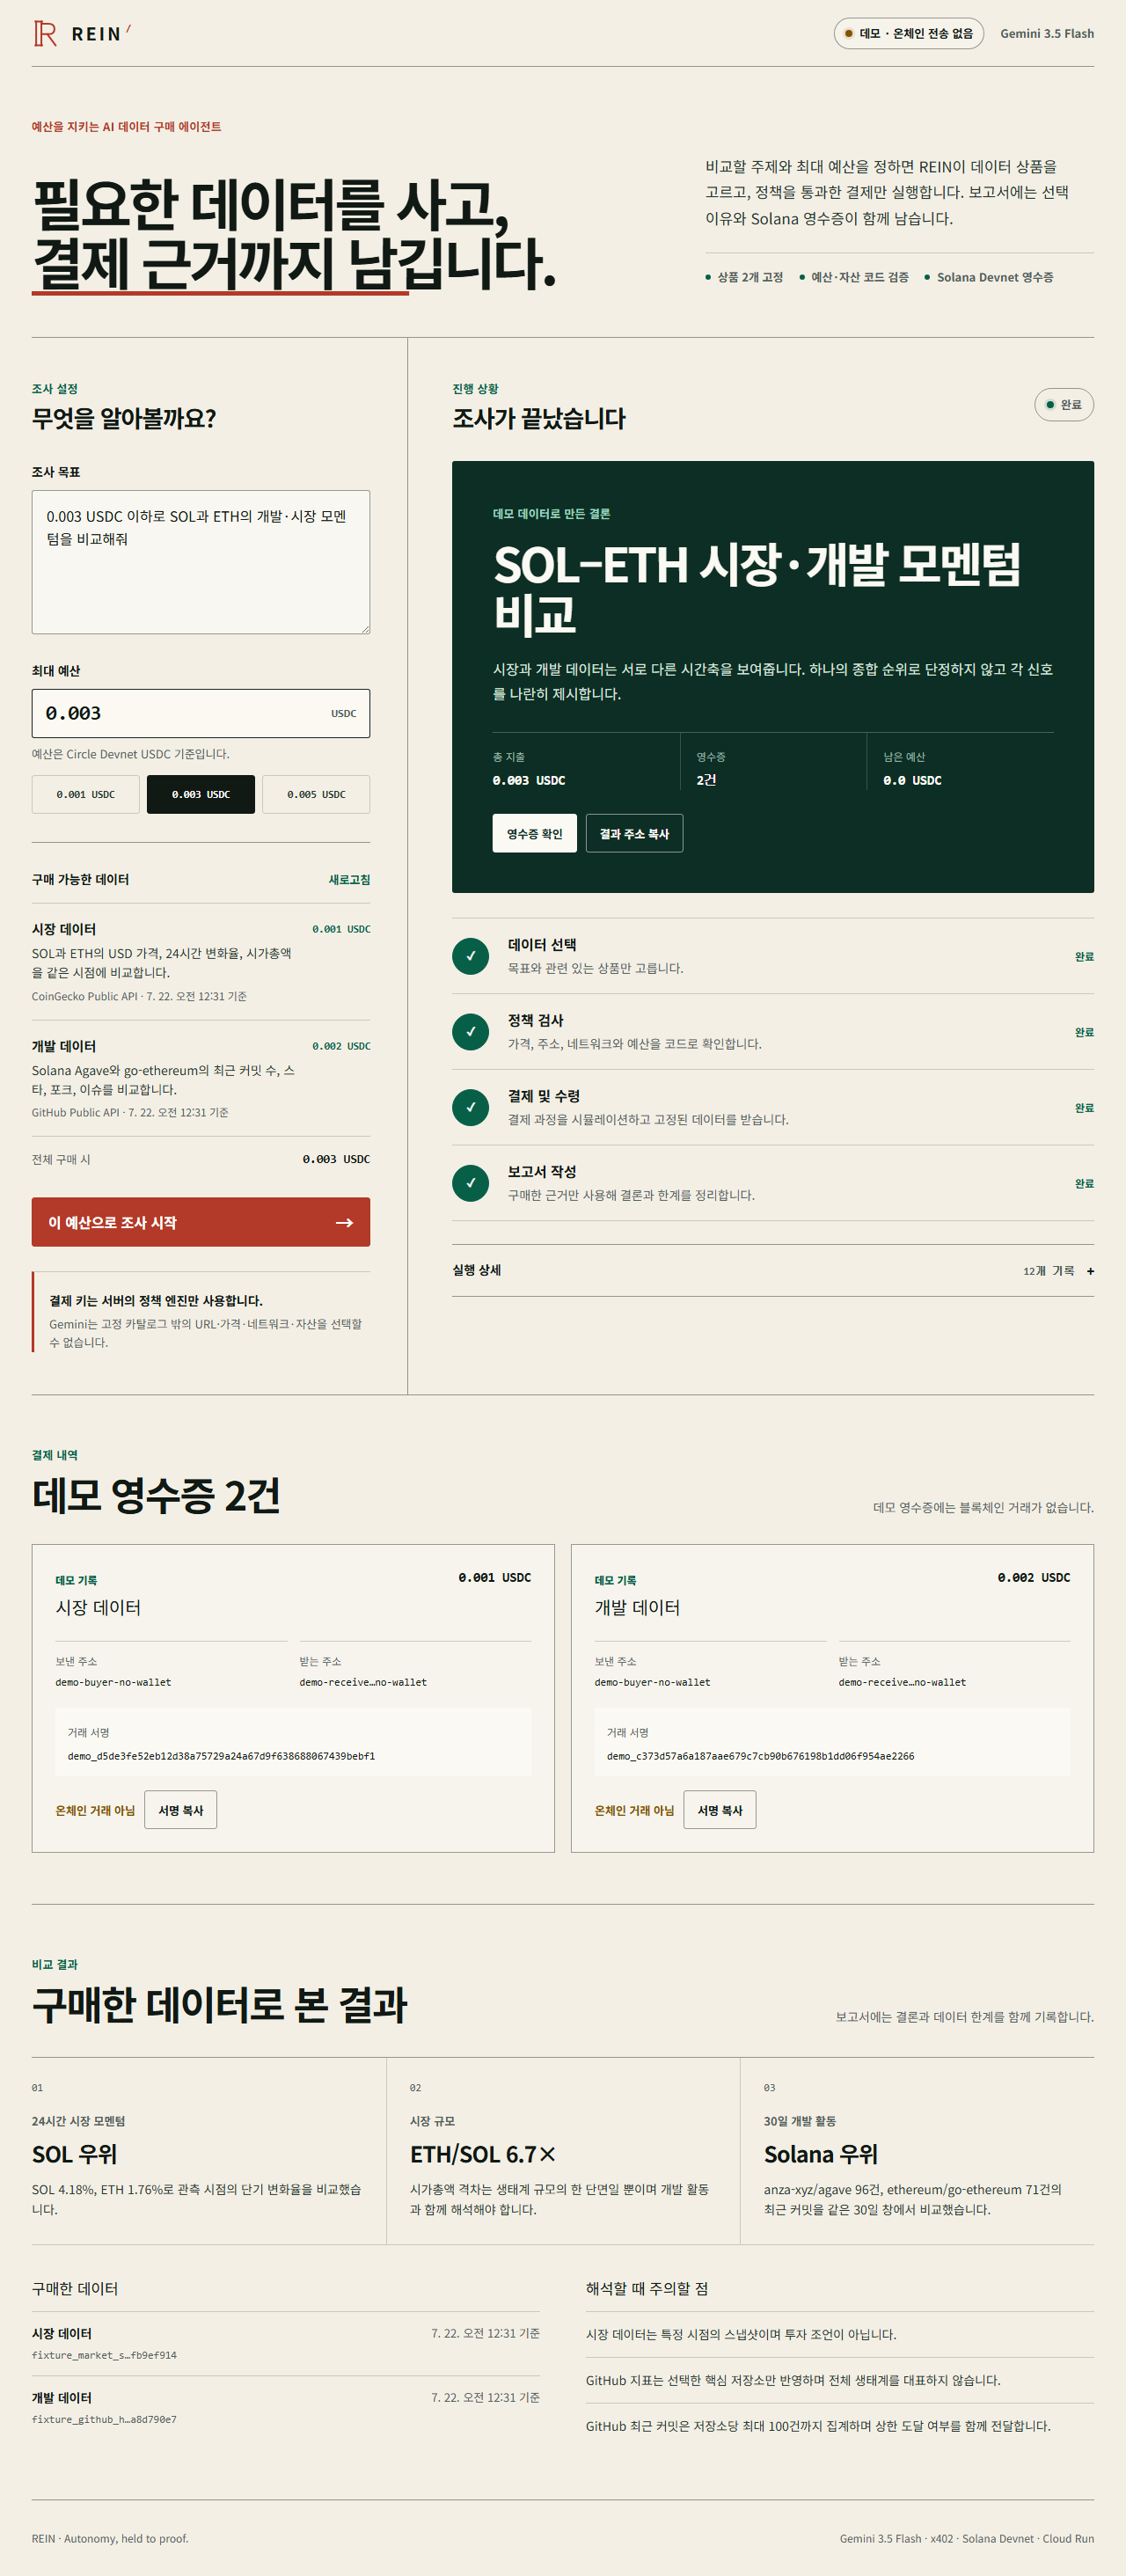
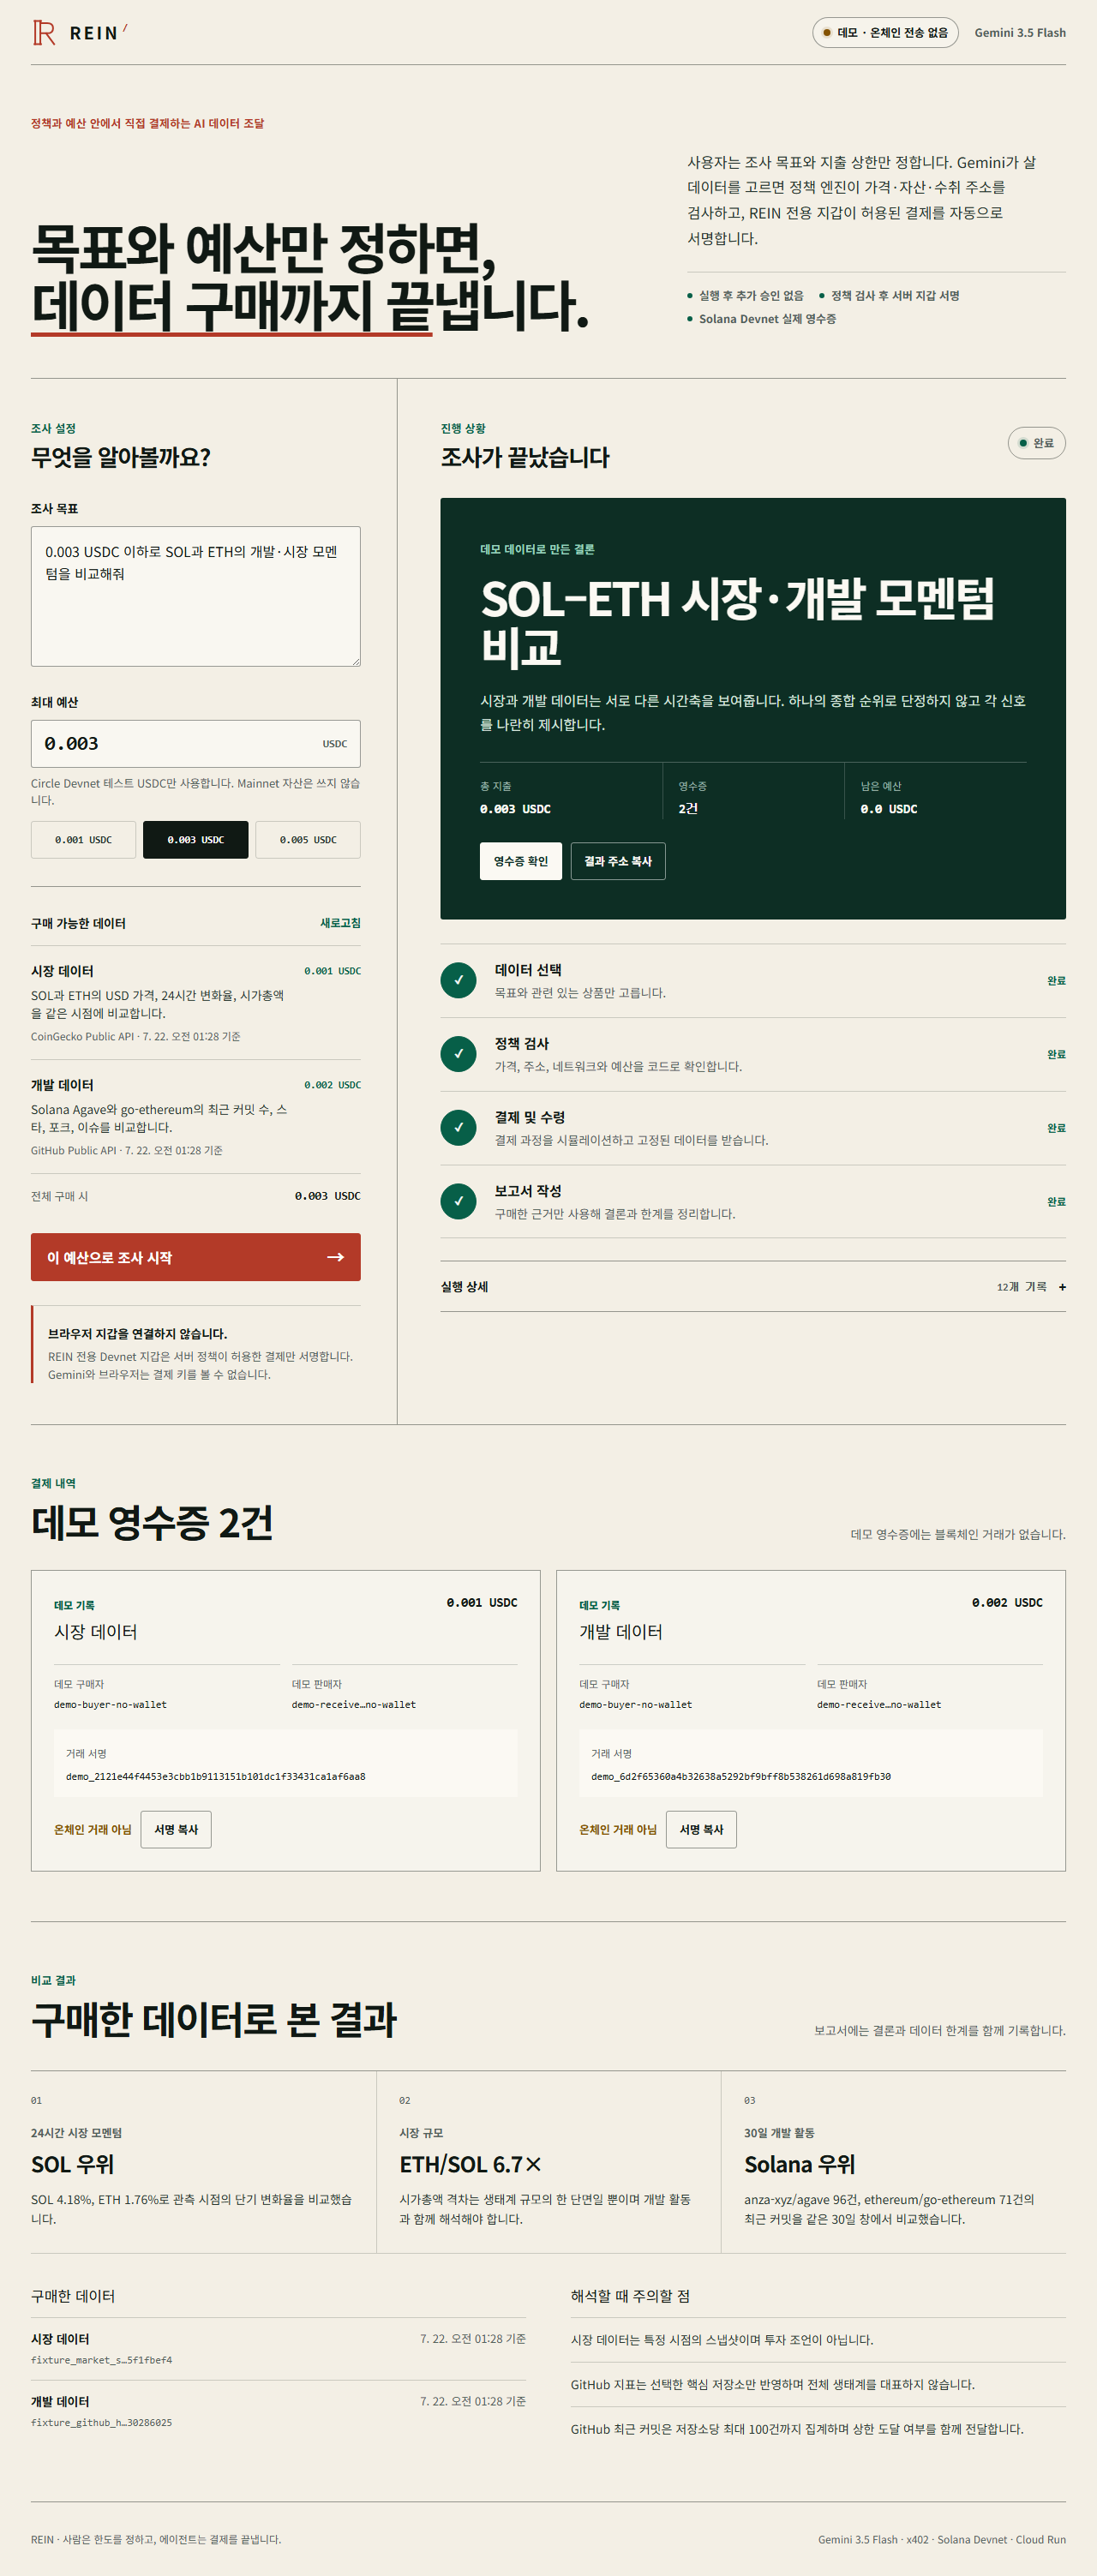
Clarify autonomous settlement experience

diff --git a/src/components/proofbuy-dashboard.tsx b/src/components/proofbuy-dashboard.tsx
@@ -178,7 +178,7 @@ function phaseState(
       title: "결제 및 수령",
       description:
         mode === "live"
-          ? "테스트 USDC로 결제하고 고정된 데이터를 받습니다."
+          ? "REIN 전용 Devnet 지갑이 자동 서명하고 고정된 데이터를 받습니다."
           : "결제 과정을 시뮬레이션하고 고정된 데이터를 받습니다.",
       state: paymentState,
     },
@@ -449,22 +449,22 @@ export function ReinDashboard() {
       </header>
 
       <section className="intro-band" aria-labelledby="page-title">
-        <p className="product-label">예산을 지키는 AI 데이터 구매 에이전트</p>
+        <p className="product-label">정책과 예산 안에서 직접 결제하는 AI 데이터 조달</p>
         <h1 id="page-title">
-          필요한 데이터를 사고,
+          목표와 예산만 정하면,
           <br />
-          <em>결제 근거까지 남깁니다.</em>
+          <em>데이터 구매까지 끝냅니다.</em>
         </h1>
         <div className="intro-support">
           <p>
-            비교할 주제와 최대 예산을 정하면 REIN이 데이터 상품을 고르고, 정책을
-            통과한 결제만 실행합니다. 보고서에는 선택 이유와 Solana 영수증이 함께
-            남습니다.
+            사용자는 조사 목표와 지출 상한만 정합니다. Gemini가 살 데이터를 고르면
+            정책 엔진이 가격·자산·수취 주소를 검사하고, REIN 전용 지갑이 허용된
+            결제를 자동으로 서명합니다.
           </p>
-          <ul aria-label="결제 제한">
-            <li>상품 2개 고정</li>
-            <li>예산·자산 코드 검증</li>
-            <li>Solana Devnet 영수증</li>
+          <ul aria-label="자율 결제 방식">
+            <li>실행 후 추가 승인 없음</li>
+            <li>정책 검사 후 서버 지갑 서명</li>
+            <li>Solana Devnet 실제 영수증</li>
           </ul>
         </div>
       </section>
@@ -517,7 +517,7 @@ export function ReinDashboard() {
               <span>USDC</span>
             </div>
             <p id="budget-help" className={`field-help ${budgetError ? "error" : ""}`}>
-              {budgetError ?? "예산은 Circle Devnet USDC 기준입니다."}
+              {budgetError ?? "Circle Devnet 테스트 USDC만 사용합니다. Mainnet 자산은 쓰지 않습니다."}
             </p>
 
             <div className="budget-presets" aria-label="예산 빠른 선택">
@@ -608,9 +608,10 @@ export function ReinDashboard() {
           </form>
 
           <div className="safety-note">
-            <strong>결제 키는 서버의 정책 엔진만 사용합니다.</strong>
+            <strong>브라우저 지갑을 연결하지 않습니다.</strong>
             <p>
-              Gemini는 고정 카탈로그 밖의 URL·가격·네트워크·자산을 선택할 수 없습니다.
+              REIN 전용 Devnet 지갑은 서버 정책이 허용한 결제만 서명합니다. Gemini와
+              브라우저는 결제 키를 볼 수 없습니다.
             </p>
           </div>
         </aside>
@@ -671,7 +672,7 @@ export function ReinDashboard() {
             <div className="run-intro">
               <p>
                 {lastEvent?.detail ??
-                  "구매 전에 상품·가격·선택 이유와 정책 검사 결과를 확인합니다."}
+                  "실행하면 추가 승인 없이 상품 선택, 정책 검사, 서버 지갑 결제, 보고서 작성까지 이어집니다."}
               </p>
               <div className="budget-summary">
                 <div>
@@ -792,11 +793,11 @@ export function ReinDashboard() {
                 </div>
                 <dl>
                   <div>
-                    <dt>보낸 주소</dt>
+                    <dt>{receipt.mode === "live" ? "REIN 에이전트 지갑" : "데모 구매자"}</dt>
                     <dd>{shorten(receipt.payer, 12, 9)}</dd>
                   </div>
                   <div>
-                    <dt>받는 주소</dt>
+                    <dt>{receipt.mode === "live" ? "데이터 판매자" : "데모 판매자"}</dt>
                     <dd>{shorten(receipt.payee, 12, 9)}</dd>
                   </div>
                 </dl>
@@ -866,7 +867,7 @@ export function ReinDashboard() {
       )}
 
       <footer className="footer">
-        <span>REIN · Autonomy, held to proof.</span>
+        <span>REIN · 사람은 한도를 정하고, 에이전트는 결제를 끝냅니다.</span>
         <span>Gemini 3.5 Flash · x402 · Solana Devnet · Cloud Run</span>
       </footer>
     </main>

diff --git a/output/presentation/rein-deck.js b/output/presentation/rein-deck.js
@@ -12,7 +12,7 @@ pptx.layout = "LAYOUT_WIDE";
 pptx.author = "REIN";
 pptx.company = "REIN";
 pptx.subject = "Google Cloud x Solana AI Agentic Hackathon submission";
-pptx.title = "REIN - Autonomy, held to proof";
+pptx.title = "REIN - Autonomous data procurement on Solana";
 pptx.lang = "ko-KR";
 pptx.theme = {
   headFontFace: "Noto Sans KR",
@@ -191,7 +191,7 @@ function receipt(slide, x, y, label, amount, signature, live) {
     fontSize: 28,
     bold: true,
   });
-  text(slide, "AGENT-INITIATED COMMERCE", 0.76, 1.63, 4.4, 0.25, {
+  text(slide, "SOLANA AGENTIC COMMERCE", 0.76, 1.63, 4.4, 0.25, {
     fontFace: MONO,
     fontSize: 9,
     color: C.green,
@@ -204,7 +204,7 @@ function receipt(slide, x, y, label, amount, signature, live) {
     breakLine: true,
     valign: "top",
   });
-  text(slide, "목표와 예산을 받으면 데이터를 고르고, 결제한 뒤 근거와 영수증을 남깁니다.", 0.76, 4.18, 7.1, 0.44, {
+  text(slide, "목표와 예산만 정하면, REIN 전용 지갑이 데이터 구매까지 끝냅니다.", 0.76, 4.18, 7.1, 0.44, {
     fontSize: 15,
     color: C.muted,
   });
@@ -246,6 +246,12 @@ function receipt(slide, x, y, label, amount, signature, live) {
     bold: true,
     breakLine: true,
   });
+  text(slide, "POLICY-GATED SERVER WALLET", 9.02, 5.32, 2.8, 0.2, {
+    color: C.mint,
+    fontFace: MONO,
+    fontSize: 7,
+    bold: true,
+  });
   footer(slide);
 }
 
@@ -255,7 +261,7 @@ function receipt(slide, x, y, label, amount, signature, live) {
   header(
     slide,
     "02 / problem",
-    "데이터를 고르는 모델에게 결제 권한까지 맡길 수는 없습니다.",
+    "모델이 데이터를 골라도, 지갑과 예산은 코드가 통제해야 합니다.",
     "대상: 유료 외부 데이터를 쓰는 리서치·AI 운영팀",
   );
   const risks = [
@@ -319,7 +325,7 @@ function receipt(slide, x, y, label, amount, signature, live) {
     ["GOAL", "조사 목표", "목표 + 0.003 USDC"],
     ["SELECT", "상품 선택", "시장 0.001\nGitHub 0.002"],
     ["POLICY", "결제 전 검사", "URL·mint·금액\n상한 확인"],
-    ["PAY", "x402 결제", "Devnet USDC\n거래 2건"],
+    ["PAY", "서버 지갑 결제", "x402 · Devnet USDC\n거래 2건"],
     ["RESULT", "결과 기록", "스냅샷 + 영수증\n+ 데이터 한계"],
   ];
   steps.forEach(([tag, name, detail], i) => {
@@ -412,7 +418,7 @@ function receipt(slide, x, y, label, amount, signature, live) {
 
   const notes = [
     ["01", "구매 순서", "탐색 → 선택 이유 → 정책 → 결제 → 수령을 시간순으로 확인"],
-    ["02", "예산 고정", "지출, 남은 예산, 영수증을 선택 결과 옆에 배치"],
+    ["02", "지갑 역할", "REIN 에이전트 지갑과 데이터 판매자 주소를 영수증에 표시"],
     ["03", "상태별 복구", "denied·unavailable·reconciling·timeout별 복구 안내"],
   ];
   notes.forEach(([n, titleValue, body], i) => {
@@ -450,7 +456,7 @@ function receipt(slide, x, y, label, amount, signature, live) {
   const layers = [
     { x: 0.72, w: 3.26, label: "DECIDE", tone: C.green, title: "Vertex AI + Google ADK", items: ["gemini-3.5-flash", "structured selection", "purchased-evidence synthesis"] },
     { x: 4.34, w: 4.63, label: "CONTROL", tone: C.ink, title: "Next.js policy + Firestore", items: ["fixed catalog / BigInt limits", "transactional reservation", "events · payments · quota"] },
-    { x: 9.33, w: 3.28, label: "SETTLE", tone: C.amber, title: "x402 + Solana Devnet", items: ["buyer + protected seller", "payment-identifier", "Circle test USDC receipt"] },
+    { x: 9.33, w: 3.28, label: "SETTLE", tone: C.amber, title: "x402 + Solana Devnet", items: ["server buyer wallet + seller", "payment-identifier", "Circle test USDC receipt"] },
   ];
   layers.forEach((layer) => {
     box(slide, layer.x, 2.72, layer.w, 2.6, { fill: C.paper, line: layer.tone, width: 1.1 });
@@ -503,7 +509,7 @@ function receipt(slide, x, y, label, amount, signature, live) {
     ["ATOMIC", "금액은 BigInt", "6자리 atomic 문자열, 구매 4000 / 실행 10000 / 일일 250000"],
     ["IDEMPOTENCY", "요청별 결제 ID", "같은 payment ID가 다른 요청에 쓰이면 Firestore에서 거부"],
     ["RECONCILE", "자동 재결제 금지", "서명 뒤 상태가 불명확하면 예약을 유지하고 Explorer에서 확인"],
-    ["SECRET", "서버 전용 서명 키", "키는 Cloud Run에만 주입하며 Gemini·브라우저에는 전달하지 않음"],
+    ["SECRET", "에이전트 서버 지갑", "Secret Manager 키로 정책 승인 결제만 서명하며 브라우저 연결은 사용하지 않음"],
     ["INJECTION", "외부 데이터는 비신뢰 입력", "카탈로그와 데이터 속 지시는 무시하고 허용된 숫자 필드만 사용"],
   ];
   safeguards.forEach(([tag, titleValue, body], i) => {
@@ -586,7 +592,9 @@ function receipt(slide, x, y, label, amount, signature, live) {
     breakLine: true,
     valign: "top",
   });
-  text(slide, "지금은 데이터 상품 2개를 다룹니다. 같은 결제 계약을 리서치 API, B2B 데이터, 모델·도구 구매에도 적용할 수 있습니다.", 0.76, 3.75, 7.2, 0.8, { fontSize: 13, color: C.muted, breakLine: true, valign: "top" });
+  text(slide, "SOLANA AGENTIC COMMERCE / SINGLE TRACK", 0.76, 3.54, 4.3, 0.2, { fontFace: MONO, fontSize: 7.5, color: C.green, bold: true });
+  text(slide, "가장 가까운 시작점: B. Autonomous On-chain Settlement", 0.76, 3.82, 7.2, 0.28, { fontSize: 12.5, bold: true });
+  text(slide, "지금은 데이터 상품 2개를 다룹니다. 같은 결제 계약을 유료 리서치 API, B2B 데이터, 모델·도구 구매에도 적용할 수 있습니다.", 0.76, 4.28, 7.2, 0.72, { fontSize: 12, color: C.muted, breakLine: true, valign: "top" });
 
   box(slide, 8.78, 1.55, 3.62, 4.44, { fill: C.ink, line: C.ink });
   text(slide, "SUBMISSION", 9.12, 1.91, 2.8, 0.2, { fontFace: MONO, fontSize: 8, color: C.mint, bold: true });
@@ -599,8 +607,8 @@ function receipt(slide, x, y, label, amount, signature, live) {
   text(slide, "Video demo", 9.12, 4.95, 2.5, 0.24, { fontSize: 13, color: C.white, bold: true });
   text(slide, "≤ 3 min · captions included", 9.12, 5.3, 2.75, 0.23, { fontFace: MONO, fontSize: 7.2, color: C.mint });
 
-  text(slide, "Autonomy, held to proof.", 0.76, 5.68, 7.4, 0.42, { fontSize: 18, color: C.green, bold: true });
-  footer(slide, "REIN / AGENT-INITIATED COMMERCE");
+  text(slide, "사람은 한도를 정하고, 에이전트는 결제를 끝냅니다.", 0.76, 5.68, 7.4, 0.42, { fontSize: 18, color: C.green, bold: true });
+  footer(slide, "REIN / SOLANA AGENTIC COMMERCE");
 }
 
 for (const slide of pptx._slides) {

diff --git a/src/app/layout.tsx b/src/app/layout.tsx
@@ -2,9 +2,9 @@ import type { Metadata } from "next";
 import "./globals.css";
 
 export const metadata: Metadata = {
-  title: "REIN — 예산 안에서 데이터를 사는 AI 에이전트",
+  title: "REIN — 목표와 예산만 받는 자율 데이터 조달 에이전트",
   description:
-    "Gemini 3.5 Flash가 필요한 데이터를 고르고 Solana Devnet에서 결제한 뒤 영수증과 비교 보고서를 남깁니다.",
+    "Gemini가 필요한 데이터를 고르면 정책 엔진이 검사하고 REIN 전용 지갑이 Solana Devnet에서 자동 결제합니다.",
 };
 
 export default function RootLayout({ children }: Readonly<{ children: React.ReactNode }>) {

diff --git a/tests/e2e/proofbuy.spec.ts b/tests/e2e/proofbuy.spec.ts
@@ -24,7 +24,8 @@ test("runs the two-product demo and renders an explicit simulated receipt", asyn
   page,
 }, testInfo) => {
   await page.goto("/");
-  await expect(page.getByRole("heading", { name: /필요한 데이터를 사고/ })).toBeVisible();
+  await expect(page.getByRole("heading", { name: /목표와 예산만 정하면/ })).toBeVisible();
+  await expect(page.getByText("브라우저 지갑을 연결하지 않습니다.")).toBeVisible();
   await expect(page.getByTestId("mode-badge")).toContainText(
     "데모 · 온체인 전송 없음",
   );

diff --git a/docs/submission/form-draft-ko.md b/docs/submission/form-draft-ko.md
@@ -23,19 +23,25 @@
 
 ## 프로젝트명
 
-REIN — 예산을 지키는 AI 데이터 구매 에이전트
+REIN — 목표와 예산만 받는 자율 데이터 조달 에이전트
 
 ## 한 줄 소개
 
-목표와 예산을 받으면 Gemini가 필요한 데이터를 선택하고, 정책 검사를 통과한
-구매만 Solana Devnet에서 결제합니다. 결과에는 온체인 영수증과 근거 보고서가
-함께 남습니다.
+사용자는 목표와 예산만 정합니다. Gemini가 살 데이터를 고르면 정책 엔진이 검사하고,
+REIN 전용 서버 지갑이 Solana Devnet에서 자동으로 서명·결제합니다. 결과에는 온체인
+영수증과 근거 보고서가 함께 남습니다.
+
+## 공모 주제 분류
+
+공식 행사는 Solana 기반 Agentic Commerce 단일 트랙입니다. A~D 가운데 굳이 가장
+가까운 시작점을 고르면 **B. Autonomous On-chain Settlement**입니다. 데이터 상품을
+에이전트가 직접 선택해 구매한다는 사용 사례는 A와도 겹칩니다.
 
 ## 타깃 사용자
 
 외부 데이터 비용을 통제하면서 반복 조사를 자동화하려는 리서처, AI 운영자,
-B2B SaaS 팀. SOL/ETH 시장·개발 모멘텀 비교를 통해 데이터 선택, 결제, 영수증
-기록까지 이어지는 흐름을 시연합니다.
+B2B SaaS 팀. SOL/ETH 시장·개발 모멘텀 비교를 통해 목표와 예산만 받은 에이전트가
+데이터 선택, 서버 지갑 결제, 영수증 기록까지 끝내는 흐름을 시연합니다.
 
 ## 해결 문제
 
@@ -55,6 +61,7 @@ USDC mint, 가격, payee, 실행·일일 한도를 재검증하고 Firestore 트
 
 - Vertex AI `gemini-3.5-flash`, Google ADK TypeScript, structured output
 - Cloud Run 단일 서비스, Firestore transactional quota, Secret Manager key
+- 브라우저 지갑 연결 없이 REIN Devnet 서버 지갑이 정책 승인 결제만 서명
 - Gemini에는 결제 키를 전달하지 않고 관련성·가격·선택 이유만 구조화해 받음
 
 ## Solana / 결제 활용

diff --git a/docs/submission/deck-content-ko.md b/docs/submission/deck-content-ko.md
@@ -1,17 +1,19 @@
 # REIN 8장 발표 자료 구성
 
-1. **표지** — REIN, 한 줄 설명, Agent-Initiated Commerce.
+1. **표지** — REIN, 한 줄 설명, Solana Agentic Commerce 단일 트랙과
+   Autonomous On-chain Settlement 성격.
 2. **문제** — 선택 근거 부족, 예산 이탈, 중복 결제, 불명확한 정산.
 3. **제품 흐름** — 목표와 상한 → 상품 선택 → 정책 검사 → 결제 2건 → 근거 보고서.
 4. **사용 경험** — 목표, 예산, 선택 이유, Devnet 결제와 demo 상태의 구분.
-5. **구조** — Cloud Run, Vertex/ADK, 정책 엔진, Firestore, x402, Solana Devnet,
-   결제 전에 고정한 CoinGecko·GitHub 스냅샷.
+5. **구조** — Cloud Run, Vertex/ADK, 정책 엔진, Firestore, Secret Manager의
+   REIN 서버 지갑, x402, Solana Devnet, 결제 전에 고정한 CoinGecko·GitHub 스냅샷.
 6. **결제 제한** — allowlist, atomic `BigInt`, quota 예약, payment fingerprint,
    `reconciling`, Secret Manager.
 7. **Devnet 증거** — 확정된 서명 2건, Explorer 영수증, 최신 테스트 수.
-8. **적용 범위** — 유료 리서치 API와 B2B 데이터 조달로 확장할 수 있는 계약,
-   현재 MVP의 범위, Cloud Run·GitHub·3분 이하 영상.
+8. **적용 범위** — 공식 단일 트랙 안에서 가장 가까운 시작점은 B,
+   유료 리서치 API와 B2B 데이터 조달로 확장할 수 있는 계약, 현재 MVP의 범위,
+   Cloud Run·GitHub·3분 이하 영상.
 
-현재 자료는 2026-07-21에 검증한 Cloud Run origin과 영상에 표시되는 두 거래를
-기본값으로 사용한다. 새로운 증거로 바꿀 때는 승인된 Cloud Run 실행을 한 번만 만들고,
+현재 자료는 2026-07-22에 검증한 Cloud Run origin과 2026-07-21에 생성된 영상 속
+두 거래를 기본값으로 사용한다. 새로운 증거로 바꿀 때는 승인된 Cloud Run 실행을 한 번만 만들고,
 RPC 확정 여부와 PDF 8장의 픽셀 렌더를 다시 확인한다.

diff --git a/PROJECT_BRIEF.md b/PROJECT_BRIEF.md
@@ -6,8 +6,12 @@
 
 REIN은 조사 목표와 예산을 기준으로 데이터 구매를 맡기는 제품이다. 사용자가 조사
 목표와 최대 예산을 정하면 Gemini 3.5 Flash가 허용된 데이터 상품을 비교하고,
-결정론적 정책을 통과한 구매만 Solana Devnet 테스트 USDC로 결제한다. 결과에는
-구매한 근거와 온체인 영수증이 함께 남는다.
+결정론적 정책을 통과한 구매만 REIN 전용 서버 지갑이 Solana Devnet 테스트
+USDC로 자동 결제한다. 결과에는 구매한 근거와 온체인 영수증이 함께 남는다.
+
+공식 공모 주제는 Solana 기반 Agentic Commerce 단일 트랙이다. REIN은 데이터
+구매라는 면에서 Agent-Initiated Commerce와 겹치지만, 정책·예산 안에서 에이전트
+지갑이 직접 서명·결제한다는 핵심은 Autonomous On-chain Settlement에 가장 가깝다.
 
 ## 사용자와 해야 할 일
 

diff --git a/docs/submission/demo-script-ko.md b/docs/submission/demo-script-ko.md
@@ -21,7 +21,8 @@
 
 ## 00:14-00:21 — 제품 소개
 
-> 레인은 조사 목표와 최대 예산을 받아, 필요한 데이터를 고르고 구매합니다.
+> 사용자는 목표와 한도만 정합니다. 제미나이가 데이터를 고르면 레인 전용
+> 지갑이 자동으로 결제합니다.
 
 화면: `Solana Devnet · 테스트 결제`, 조사 목표, 0.003 USDC 예산을 보여준다.
 
@@ -42,7 +43,8 @@
 ## 00:53-01:07 — 정책 검사
 
 > 결제를 허용하는 것은 모델이 아니라 정책 엔진입니다. 주소와 네트워크,
-> 결제 자산, 최대 예산을 코드가 다시 확인합니다.
+> 결제 자산, 최대 예산을 코드가 다시 확인합니다. 지갑 키는 모델과 브라우저에
+> 전달하지 않습니다.
 
 화면: 네트워크·mint·URL·수취 주소·가격·실행 및 일일 한도를 검사하는 단계다.
 
@@ -76,7 +78,7 @@
 
 ## 02:14-02:22 — 마무리
 
-> 레인. 필요한 데이터만 사고, 결제마다 근거를 남깁니다.
+> 레인. 사람은 한도를 정하고, 에이전트는 결제를 끝냅니다.
 
 화면: REIN 카드와 `AI 생성 음성 · Solana Devnet 거래 2건` 고지.
 

diff --git a/output/video/README.md b/output/video/README.md
@@ -6,7 +6,7 @@
 - 영상에 번인한 한국어 자막과 별도 `edit/captions-ko.srt`
 - Qwen3-TTS 0.6B CustomVoice의 공식 한국어 화자 `Sohee`
 - 개인 음성 샘플과 음성 복제는 사용하지 않음
[2 lines of base64/hex data omitted]
 
 실행 버튼부터 보고서 완료, 두 Solana Explorer 거래 확인까지 하나의 Cloud Run
 실행을 시간순으로 담았다. 원본 실행 구간은 연속이며, 추가 편집은 앞뒤 REIN 카드,
@@ -30,8 +30,8 @@
 내레이션은 [QwenLM/Qwen3-TTS](https://github.com/QwenLM/Qwen3-TTS)의
 `Qwen/Qwen3-TTS-12Hz-0.6B-CustomVoice`를 CPU에서 실행해 만들었다. 모델,
 revision, 화자, 라이선스와 각 WAV의 해시는 `edit/narration-manifest.json`에
-고정했다. `faster-whisper-small` 역전사 검사는 문장별 평균 0.972, 최종 믹스
-0.961의 정규화 유사도를 기록했다. 이는 발화 식별 가능성을 점검하는 자동 검사일
+고정했다. `faster-whisper-small` 역전사 검사는 문장별 평균 0.961, 최종 믹스
+0.970의 정규화 유사도를 기록했다. 이는 발화 식별 가능성을 점검하는 자동 검사일
 뿐, 주관적인 음질 평가를 대신하지 않는다.
 
 ## 다시 만들기